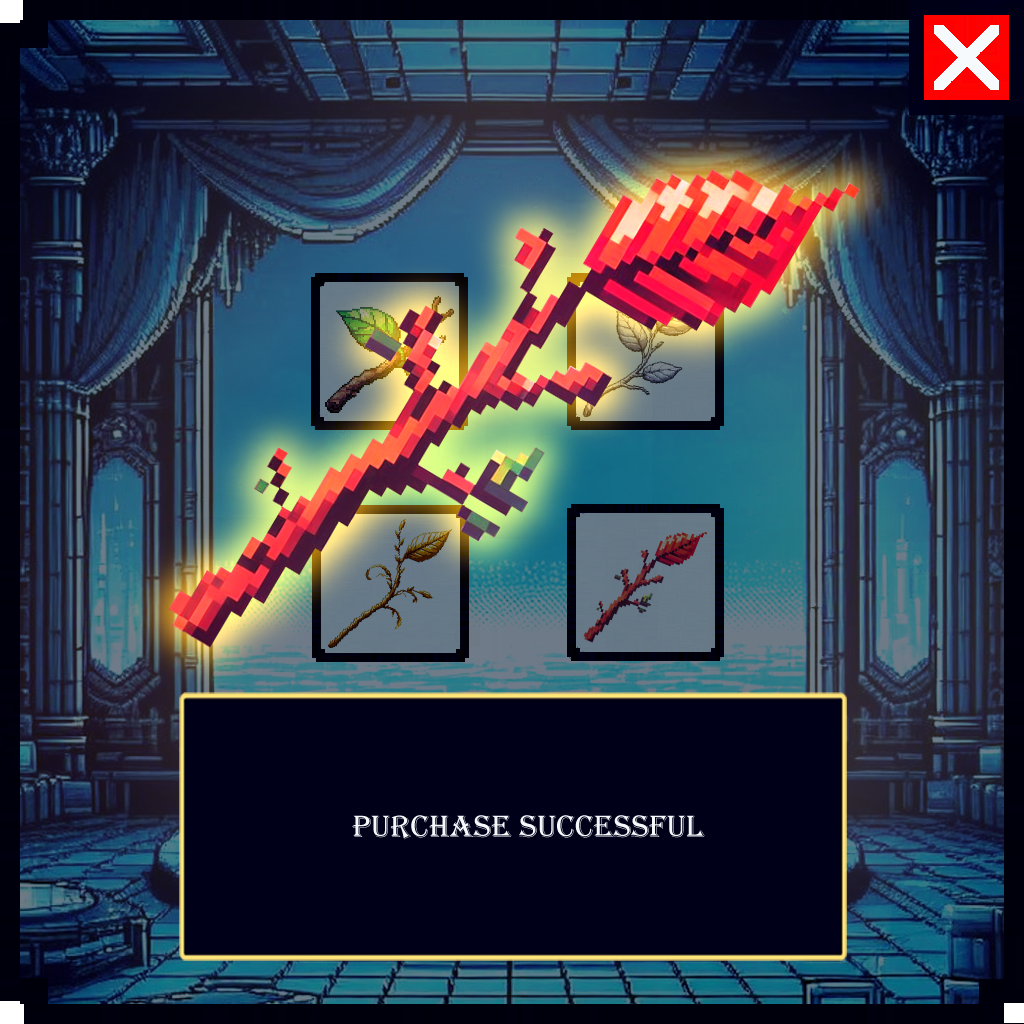
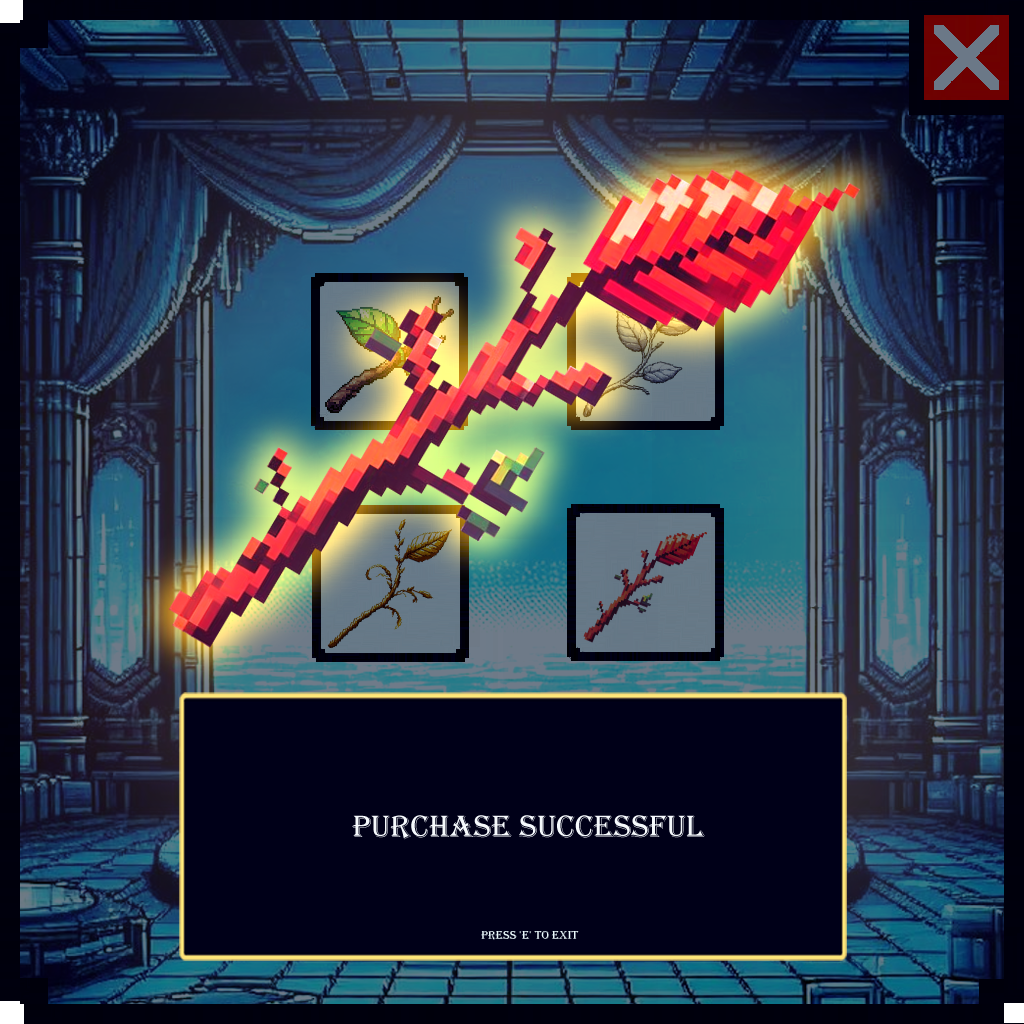
Finished Shop

Changed region(s): [[0.875, 0.0, 1.0, 0.125], [0.4688, 0.9062, 0.5625, 0.9375]]

diff --git a/Sketch.java b/Sketch.java
@@ -13,6 +13,7 @@ public class Sketch extends PApplet {
   // movement variables. Checking for keys pressed and direction faced
   boolean leftPressed = false;
   boolean rightPressed = false;
+  boolean upPressed = false;
   int intDirection = 1;
 
   int intBGX;
@@ -42,7 +43,8 @@ public class Sketch extends PApplet {
     {722, 334}, // fourth stick
     {921, 58}, // X button
     {580, 572}, // Yes button
-    {781, 572} // No button
+    {781, 572}, // No button
+    {504, 456} // Description screen
   };
 
   // Wands
@@ -150,6 +152,9 @@ public class Sketch extends PApplet {
     drawShop();
   }
 
+  /**
+   * Draw the woodworker, placement depends on the x-coordinate of the background.
+   */
   public void woodworker() {
 
     if (intLevel == 2) {
@@ -172,6 +177,9 @@ public class Sketch extends PApplet {
 
   }
 
+  /**
+   * Drawing the shop.
+   */
   public void drawShop() {
     if (blnShopOn) {
       // if nothing has been clicked
@@ -225,16 +233,16 @@ public class Sketch extends PApplet {
             intShopStatus += 4;
             wait(100);
           }
-          // exit either purchase or deny message
-          if (mousePressed) {
-            intShopStatus = 0;
-            wait(100);
-          }
         }
+        // press no
         else if (isHovering(itemCoordinates[6][0], itemCoordinates[6][1], 27, 19)) {
           if (mousePressed) {
             intShopStatus = 0;
           }
+        }
+        // exit either purchase or deny message
+        if (keyPressed && key == 'e') {
+          intShopStatus = 0;
         }
       }
       shop = arrShop[intShopStatus];
@@ -264,11 +272,13 @@ public class Sketch extends PApplet {
    * @param height The height added onto the y-coordinate for the other y-side
    * @return true or false of if the mouse is within the boundaries
    */
-
   public boolean isHovering(int x, int y, int width, int height) {
     return mouseX >= x && mouseX <= x + width && mouseY >= y && mouseY <= y + height;
   }
 
+  /**
+   * Drawing the background depending on the level, making sure the moving backgrounds are properly drawn.
+   */
   public void drawBackground() {
     background = arrBackground[intLevel];
 
@@ -283,6 +293,9 @@ public class Sketch extends PApplet {
     }
   }
 
+  /**
+   * draws the character with hover and direction faced
+   */
   public void drawCharacter() {
 
     if(intDirection == 1){
@@ -306,9 +319,10 @@ public class Sketch extends PApplet {
     image(character, intPosX, intPosY);
 
   }
-  
-  // define other methods down here.
 
+  /**
+   * Movement based on keyPressed and keyReleased
+   */
   public void movement() {
 
     if (leftPressed) {
@@ -344,6 +358,9 @@ public class Sketch extends PApplet {
 
   }
 
+  /**
+   * to check if the specified key is pressed
+   */
   public void keyPressed() {
     if (key == 'a') {
       leftPressed = true;
@@ -353,14 +370,23 @@ public class Sketch extends PApplet {
       rightPressed = true;
       intDirection = 1;
     }
+    else if (key == 'w' && intLevel == 3) {
+      upPressed = true;
+    }
   }
   
+  /**
+   * to check if the specified key is released
+   */
   public void keyReleased() {
     if (key == 'a') {
       leftPressed = false;
     }
     else if (key == 'd') {
       rightPressed = false;
+    }
+    else if (key == 'w' && intLevel == 3) {
+      upPressed = false;
     }
   }
 }
